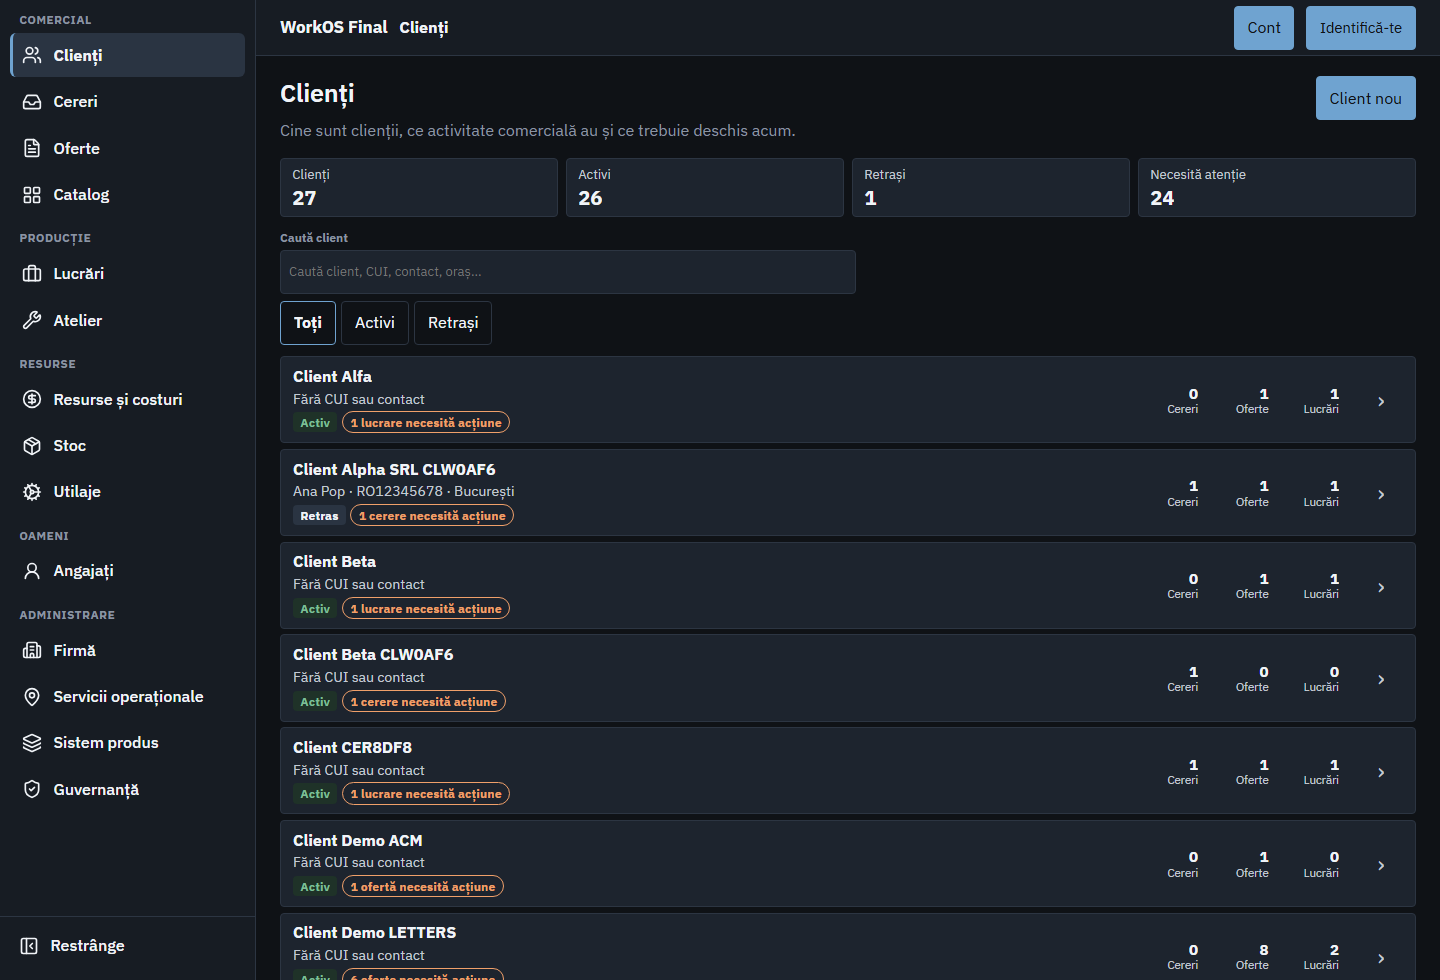
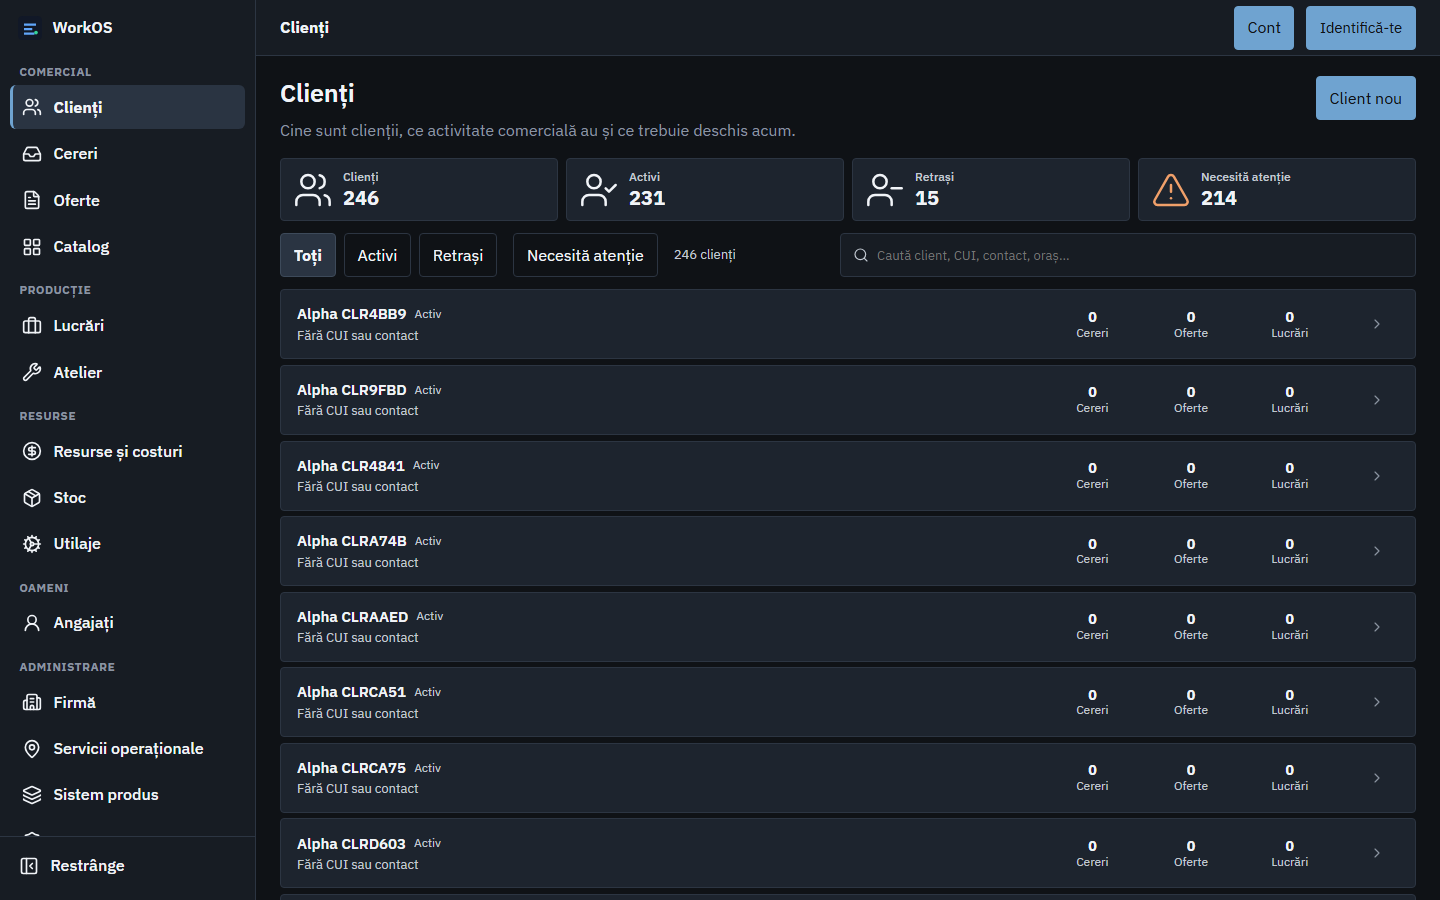
docs: publish Clients Figma-final runtime review evidence
Capture current /clients viewports against the accepted Figma file for Owner comparison. Do not merge this branch.

diff --git a/ui-review/manifest.md b/ui-review/manifest.md
@@ -1,70 +1,96 @@
-# UI review — V3 Commercial Wave 1 final Clients convergence
+# UI review — Clients Figma final runtime evidence
 
 ```text
 IMPLEMENTATION_BRANCH = feat/ui-v3-commercial-content-wave1
-IMPLEMENTATION_SHA    = 05929e4fb704e8d972c883d69eb6767c2fc2c965
-BASE_SHA              = fdca09d51fec98ad9efe41ff3a864fe48eb03de4
-REVIEW_BRANCH         = review/ui-v3-commercial-wave1-visual
+IMPLEMENTATION_SHA    = 2c8daf3a7624277cad6eec34d4bceee9a9ee8e37
+START_HEAD            = 05929e4fb704e8d972c883d69eb6767c2fc2c965
 ORIGIN_MAIN           = c32281da1aed93307f0779ce568878f5d371fb23
+REVIEW_BRANCH         = review/ui-v3-commercial-wave1-visual
 DRAFT_PR              = https://github.com/office952/workos-final/pull/1
-MODEL_SOURCE          = .tmp/workos-v3-whole-app-content/board/index.html
-RUNTIME_URL           = http://127.0.0.1:5318
+FIGMA_FILE_KEY        = 1ev5lg7m2Ze1h3Vqmax8ho
+FIGMA_FILE            = WorkOS V3 — Clients Final Design
+SOURCE_OF_VISUAL_TRUTH = FIGMA_FINAL
+SOURCE_OF_BUSINESS_TRUTH = CURRENT_WORKOS_DOMAIN
 FIXTURE_CLASS         = SYNTHETIC_LOCAL
 PRIVACY_CLASS         = NO_REAL_CUSTOMER_PII
 OWNER_ACCEPTED        = NO
+OWNER_ACCEPTED_SCOPE  = CLIENTS_FIGMA_FINAL_DIRECTION
+RUNTIME_OWNER_ACCEPTED = NO
 NEVER_MERGE_TO_MAIN   = YES
-APP_CONTENT_MAX_WIDTH = none
+PAGINATION_RUNTIME_IMPLEMENTED = NO
+RETURN_PAGE           = DEFERRED_NOT_SUPPORTED
 ```
 
 This branch is evidence transport only. Do not merge it into `main`.
 
-## Width matrix
+## Figma nodes used
 
 ```text
-viewport  column  content  band   row    dead  gutter
-1440      1184    1184     1136   1136   0     24
-1536      1280    1280     1232   1232   0     24
-1920      1664    1664     1616   1616   0     24
-2048      1792    1792     1744   1744   0     24
-1280      1024    1024     976    976    0     24
-768       768     768      720    720    0     24
+1920 Light = 2:383
+1920 Dark  = 4:314
+1440 Light = 4:379
+1440 Dark  = 4:444
+1280       = 4:509
+768        = 4:1734
+Client Card / States = 2:365
+Metric Card / States = 6:1611
+Pagination / States  = 6:1653
+Tokens / UX Lock     = 4:1912
 ```
 
-`contentMaxWidth = none` at desktop. RIGHT_DEAD_SPACE_PX is the shell-column remainder, not the intentional identity-to-summary gap inside a row.
+## Runtime captures
+
+Viewport files are viewport-framed, not full-page dumps. Theme is forced via `workos.theme`. Data is the local/synthetic e2e registry, not Figma fixture names.
+
+```text
+viewport  theme   file                              figma_node
+1920      light   runtime/clients_1920_light.png    2:383
+1920      dark    runtime/clients_1920_dark.png     4:314
+1440      light   runtime/clients_1440_light.png    4:379
+1440      dark    runtime/clients_1440_dark.png     4:444
+1280      light   runtime/clients_1280.png          4:509
+768       light   runtime/clients_768.png           4:1734
+```
+
+Figma screenshots for the same nodes live under `ui-review/model/`.
+
+Sibling shell regression (brand / header / width / overflow only):
+
+```text
+runtime/requests_1440.png
+runtime/quotes_1440.png
+runtime/jobs_1440.png
+runtime/atelier_1440.png
+runtime/admin_1440.png
+```
 
 ## Raw GitHub URLs
 
 Base: `https://raw.githubusercontent.com/office952/workos-final/review/ui-v3-commercial-wave1-visual/`
 
-### Model
+### Figma model
 
-- [ui-review/model/clients_1440_dark.png](https://raw.githubusercontent.com/office952/workos-final/review/ui-v3-commercial-wave1-visual/ui-review/model/clients_1440_dark.png)
+- [ui-review/model/clients_1920_light.png](https://raw.githubusercontent.com/office952/workos-final/review/ui-v3-commercial-wave1-visual/ui-review/model/clients_1920_light.png)
+- [ui-review/model/clients_1920_dark.png](https://raw.githubusercontent.com/office952/workos-final/review/ui-v3-commercial-wave1-visual/ui-review/model/clients_1920_dark.png)
 - [ui-review/model/clients_1440_light.png](https://raw.githubusercontent.com/office952/workos-final/review/ui-v3-commercial-wave1-visual/ui-review/model/clients_1440_light.png)
+- [ui-review/model/clients_1440_dark.png](https://raw.githubusercontent.com/office952/workos-final/review/ui-v3-commercial-wave1-visual/ui-review/model/clients_1440_dark.png)
+- [ui-review/model/clients_1280.png](https://raw.githubusercontent.com/office952/workos-final/review/ui-v3-commercial-wave1-visual/ui-review/model/clients_1280.png)
+- [ui-review/model/clients_768.png](https://raw.githubusercontent.com/office952/workos-final/review/ui-v3-commercial-wave1-visual/ui-review/model/clients_768.png)
 
 ### Runtime
 
-- [ui-review/runtime/clients_1440_dark.png](https://raw.githubusercontent.com/office952/workos-final/review/ui-v3-commercial-wave1-visual/ui-review/runtime/clients_1440_dark.png)
-- [ui-review/runtime/clients_1440_light.png](https://raw.githubusercontent.com/office952/workos-final/review/ui-v3-commercial-wave1-visual/ui-review/runtime/clients_1440_light.png)
-- [ui-review/runtime/clients_1536_dark.png](https://raw.githubusercontent.com/office952/workos-final/review/ui-v3-commercial-wave1-visual/ui-review/runtime/clients_1536_dark.png)
+- [ui-review/runtime/clients_1920_light.png](https://raw.githubusercontent.com/office952/workos-final/review/ui-v3-commercial-wave1-visual/ui-review/runtime/clients_1920_light.png)
 - [ui-review/runtime/clients_1920_dark.png](https://raw.githubusercontent.com/office952/workos-final/review/ui-v3-commercial-wave1-visual/ui-review/runtime/clients_1920_dark.png)
-- [ui-review/runtime/clients_2048_dark.png](https://raw.githubusercontent.com/office952/workos-final/review/ui-v3-commercial-wave1-visual/ui-review/runtime/clients_2048_dark.png)
-- [ui-review/runtime/clients_1280_dark.png](https://raw.githubusercontent.com/office952/workos-final/review/ui-v3-commercial-wave1-visual/ui-review/runtime/clients_1280_dark.png)
-- [ui-review/runtime/clients_768_dark.png](https://raw.githubusercontent.com/office952/workos-final/review/ui-v3-commercial-wave1-visual/ui-review/runtime/clients_768_dark.png)
-- [ui-review/runtime/client-hub_1920_dark.png](https://raw.githubusercontent.com/office952/workos-final/review/ui-v3-commercial-wave1-visual/ui-review/runtime/client-hub_1920_dark.png)
-- [ui-review/runtime/requests_1920_dark.png](https://raw.githubusercontent.com/office952/workos-final/review/ui-v3-commercial-wave1-visual/ui-review/runtime/requests_1920_dark.png)
-- [ui-review/runtime/quotes_1920_dark.png](https://raw.githubusercontent.com/office952/workos-final/review/ui-v3-commercial-wave1-visual/ui-review/runtime/quotes_1920_dark.png)
-- [ui-review/runtime/jobs_1920_dark.png](https://raw.githubusercontent.com/office952/workos-final/review/ui-v3-commercial-wave1-visual/ui-review/runtime/jobs_1920_dark.png)
-
-### Comparisons
-
-- [ui-review/comparisons/clients_1440_dark_model_vs_runtime.png](https://raw.githubusercontent.com/office952/workos-final/review/ui-v3-commercial-wave1-visual/ui-review/comparisons/clients_1440_dark_model_vs_runtime.png)
-- [ui-review/comparisons/clients_1440_light_model_vs_runtime.png](https://raw.githubusercontent.com/office952/workos-final/review/ui-v3-commercial-wave1-visual/ui-review/comparisons/clients_1440_light_model_vs_runtime.png)
+- [ui-review/runtime/clients_1440_light.png](https://raw.githubusercontent.com/office952/workos-final/review/ui-v3-commercial-wave1-visual/ui-review/runtime/clients_1440_light.png)
+- [ui-review/runtime/clients_1440_dark.png](https://raw.githubusercontent.com/office952/workos-final/review/ui-v3-commercial-wave1-visual/ui-review/runtime/clients_1440_dark.png)
+- [ui-review/runtime/clients_1280.png](https://raw.githubusercontent.com/office952/workos-final/review/ui-v3-commercial-wave1-visual/ui-review/runtime/clients_1280.png)
+- [ui-review/runtime/clients_768.png](https://raw.githubusercontent.com/office952/workos-final/review/ui-v3-commercial-wave1-visual/ui-review/runtime/clients_768.png)
 
 ## Tests at IMPLEMENTATION_SHA
 
 ```text
-UNIT_TESTS = PASS 157
+UNIT_TESTS = PASS 163
 TYPECHECK  = PASS
 BUILD      = PASS
-E2E        = PASS 22 / SKIP 1
+E2E_FOCUSED = PASS clients-registry + smoke + client-workspace + v3-navigation-shell + sibling overviews
 ```
